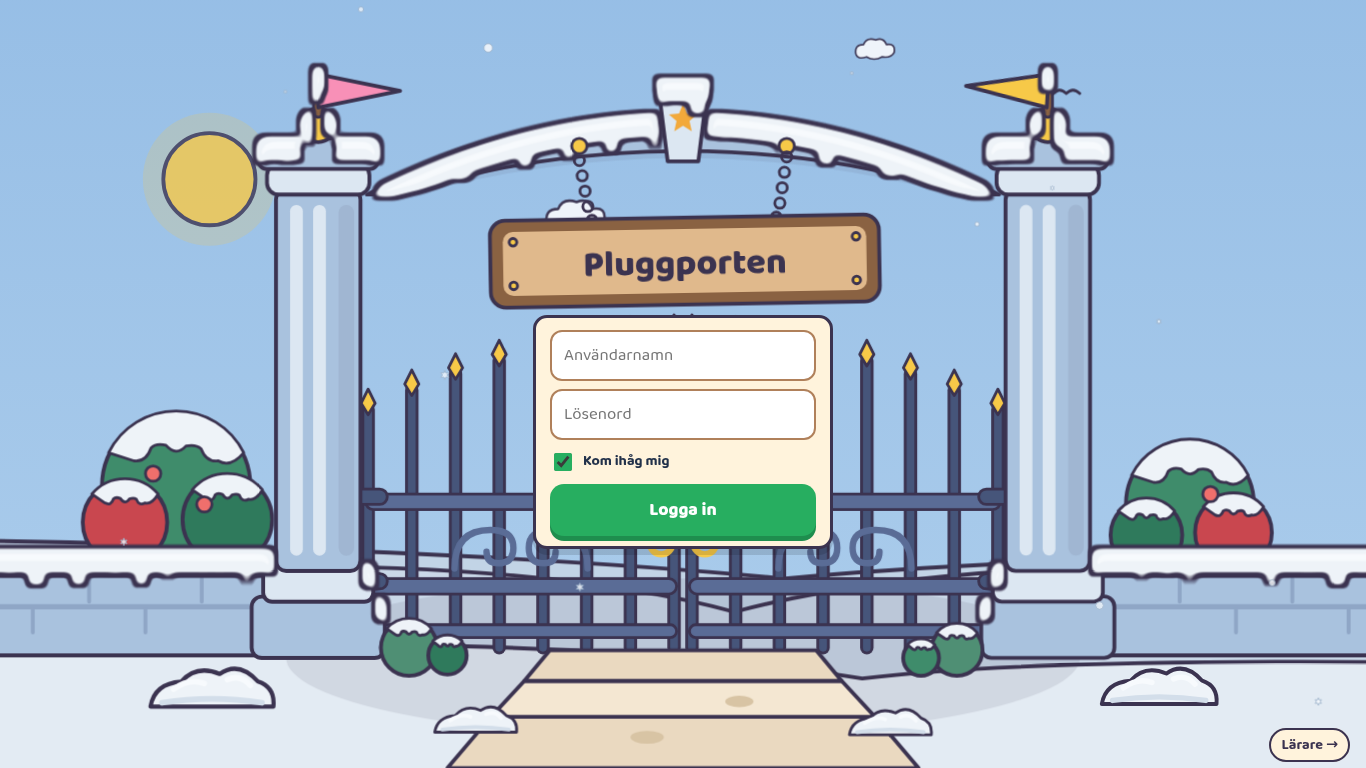
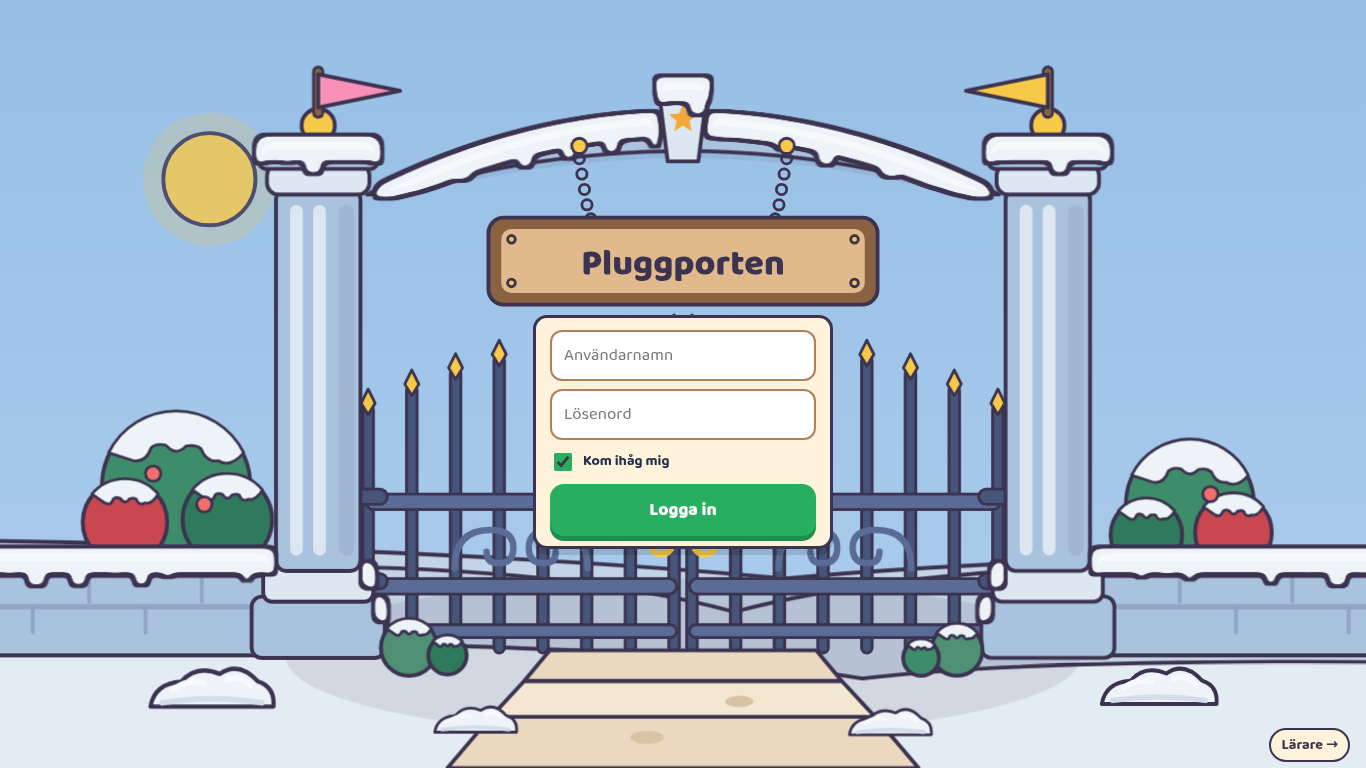
issue #908: fixrunda 1 – Tillbaka AA i vinterspärren, hill #C4D3E4 (by 1–5 hus ≤ 212,3), snöbitmapp följer DPR + skarpare kant, inga klumpar på vimpelstängerna

diff --git a/src/art-style.js b/src/art-style.js
@@ -257,8 +257,12 @@ export function snogubbe(x, y, s = 1) {
 // nyckel → { nr, svg (data-URL), ruta, bild?: {url, x, y, w, h} } – en post per konst + ruta.
 const snoBilder = new Map();
 const snoPoster = []; // nr - 1 → post
-/** Bitmappens upplösning (px per konstenhet) – skarp även när kameran zoomar in. */
+/** Bitmappens upplösning: px per konstenhet vid devicePixelRatio 1, gångras
+ *  med DPR (högst 2) så snön är skarp även på HiDPI-skärmar. */
 const SNO_UPPL = 1.25;
+/** Tak för bitmappens yta (px): filtret rastreras på huvudtråden och tiden
+ *  växer med ytan (porten vid DPR 2 utan tak: ~4× längre frys). */
+const SNO_MAX_PX = 4e6;
 
 /**
  * Snötäcke på ALLT som vänder sig uppåt i `markup` (tak, skorstenar, krön …) –
@@ -296,7 +300,7 @@ export function snoTak(markup, { x = 0, y = 0, w = 960, h = 600, t = 22 } = {}) 
       <feComposite in2="SourceAlpha" operator="in" result="droppar"/>
       <feMerge><feMergeNode in="band"/><feMergeNode in="droppar"/></feMerge>
       <feGaussianBlur stdDeviation="${(t * 0.16).toFixed(1)}"/>
-      <feComponentTransfer result="sno"><feFuncA type="linear" slope="5" intercept="-2"/></feComponentTransfer>
+      <feComponentTransfer result="sno"><feFuncA type="linear" slope="14" intercept="-6.5"/></feComponentTransfer>
       <feMorphology in="sno" operator="dilate" radius="3" result="kantA"/>
       <feFlood flood-color="${O}"/><feComposite in2="kantA" operator="in" result="kant"/>
       <feFlood flood-color="${SNO}"/><feComposite in2="sno" operator="in" result="vit"/>
@@ -325,6 +329,8 @@ export function snoTak(markup, { x = 0, y = 0, w = 960, h = 600, t = 22 } = {}) 
     preserveAspectRatio="none" aria-hidden="true" pointer-events="none"/>`;
 }
 
+const enc = (t) => encodeURIComponent(t);
+
 function starta(post) {
   if (!post.bild && !post.jobb) post.jobb = snoBitmap(post).catch(() => null);
 }
@@ -345,11 +351,15 @@ export function rastreraSnoTak() {
  */
 async function snoBitmap(post) {
   const { x, y, w, h } = post.ruta;
+  const dpr = Math.min(globalThis.devicePixelRatio || 1, 2);
+  const uppl = Math.min(SNO_UPPL * dpr, Math.sqrt(SNO_MAX_PX / (w * h)));
+  const cw = Math.round(w * uppl);
+  const ch = Math.round(h * uppl);
+  // SVG:n får canvasens storlek som egen storlek: annars filtreras den i
+  // w × h och skalas sedan upp (suddigt).
   const bild = new Image();
-  bild.src = post.svg;
+  bild.src = post.svg.replace(enc(`width="${w}" height="${h}"`), enc(`width="${cw}" height="${ch}"`));
   await bild.decode();
-  const cw = Math.round(w * SNO_UPPL);
-  const ch = Math.round(h * SNO_UPPL);
   const c = document.createElement("canvas");
   c.width = cw;
   c.height = ch;
@@ -377,7 +387,7 @@ async function snoBitmap(post) {
   const f = (n) => +n.toFixed(2);
   post.bild = {
     url: URL.createObjectURL(blob),
-    x: f(x + x0 / SNO_UPPL), y: f(y + y0 / SNO_UPPL), w: f(ut.width / SNO_UPPL), h: f(ut.height / SNO_UPPL),
+    x: f(x + x0 / uppl), y: f(y + y0 / uppl), w: f(ut.width / uppl), h: f(ut.height / uppl),
   };
   for (const el of document.querySelectorAll(`image[data-sno="${post.nr}"]`)) {
     el.setAttribute("href", post.bild.url);

diff --git a/src/art-port-majestic.js b/src/art-port-majestic.js
@@ -71,7 +71,7 @@ function fagel(x, y, s, driftTid, driftDelay, bobDelay) {
 // --- Pelare med sockel, kapitäl, krönklot och vimpel -------------------------
 // Mjuk skuggning = en halvtransparent kontur-lila remsa längs skuggsidan
 // (fortfarande platt stil, ingen gradient på formerna).
-function pelare(cx, vimpelFarg, vimpelDir, vimpelFas) {
+function pelare(cx, vimpelFarg, vimpelDir, vimpelFas, kron = true) {
   // Vimpeln svajar milt kring sitt fäste vid stången (.portb-vimpel, se
   // <style>-blocket i portScenMajestic – EGNA portb-klasser, rör aldrig
   // .port-halva/#339). transform-box:fill-box → origin i flaggans stångkant.
@@ -89,12 +89,12 @@ function pelare(cx, vimpelFarg, vimpelDir, vimpelFas) {
     <!-- kapitäl: vulst + kronplatta -->
     <rect x="${cx - 40}" y="128" width="80" height="24" rx="9" fill="${STEN_LJUS}" ${LINE}/>
     <rect x="${cx - 47}" y="108" width="94" height="24" rx="7" fill="${STEN}" ${LINE}/>
-    <!-- krönklot i guld + vimpel -->
+    ${kron ? `<!-- krönklot i guld + vimpel -->
     <circle cx="${cx}" cy="98" r="13" fill="${GULD}" ${LINE}/>
     ${limb(`M${cx} 88 L${cx} 56`, WOOD_DARK, 5)}
     <g class="portb-vimpel" style="transform-origin:${origin} center${vimpelFas ? `;animation-duration:4.6s;animation-delay:-1.7s` : ""}">
       <path d="${flag}" fill="${vimpelFarg}" ${LINE}/>
-    </g>
+    </g>` : ""}
   </g>`;
 }
 
@@ -212,16 +212,14 @@ function stenmur(fromX, toX) {
 
 /**
  * Vinterns snö (#908) på pelarkrönen, valvbågen och stenmurarna: snoTak på en
- * stillastående kopia UTAN vimplarna (de svajar) – skylten och grindhalvorna
- * (som rör sig) är inte med. Regionen täcker letterboxen på breda skärmar.
+ * stillastående kopia UTAN krönet (vimplarna svajar, stången fick klumpar) –
+ * skylten och grindhalvorna (som rör sig) är inte med. Regionen täcker
+ * letterboxen på breda skärmar.
  */
 function portSno() {
-  const pelarna = (pelare(195, "", 1, false) + pelare(765, "", -1, true)).replace(
-    /<g class="portb-vimpel"[\s\S]*?<\/g>/g,
-    ""
-  );
+  const pelarna = pelare(195, "", 1, false, false) + pelare(765, "", -1, true, false);
   return snoTak(pelarna + valvbage() + stenmur(-600, 132) + stenmur(828, 1560), {
-    x: -600, y: 40, w: 2160, h: 500, t: 18,
+    x: -600, y: 50, w: 2160, h: 440, t: 18,
   });
 }
 

diff --git a/test/vinter-varlden-908.test.js b/test/vinter-varlden-908.test.js
@@ -121,12 +121,13 @@ test("gården: snö på laggården och en snögubbe", () => {
   }
 });
 
-test("porten: snö på pelare/båge/mur (utan vimplarna), drivor, vintersol", () => {
+test("porten: snö på pelare/båge/mur (utan krönen), drivor, vintersol", () => {
   const svg = portScenMajestic(portDekor());
   const bild = svg.match(/<image class="sz-bara-vinter" data-sno[^>]*>/)[0];
   const kopia = bildSvg(bild);
-  assert.match(kopia, /viewBox="-600 40 2160 500"/, "täcker letterboxen");
+  assert.match(kopia, /viewBox="-600 50 2160 440"/, "täcker letterboxen");
   assert.doesNotMatch(kopia, /Pluggporten|port-halva|portb-vimpel|#F890B7/, "skylt, grind och vimplar är inte med");
+  assert.doesNotMatch(kopia, /r="13"|M195 88 L195 56/, "krönklot och vimpelstång är inte med (F4: klumpar)");
   assert.match(svg, /class="portb-solgrupp"/);
   assert.match(svg, /class="portb-sol sz-dolj-vinter"/);
   assert.match(CSS, /html\[data-sasong="vinter"\] \.portb-solgrupp \{ opacity: 0\.8;/);
@@ -135,6 +136,8 @@ test("porten: snö på pelare/båge/mur (utan vimplarna), drivor, vintersol", ()
 
 test("lärarspärren: vinterns bakgrund + drivor och en snögubbe", () => {
   assert.match(CSS, /html\[data-sasong\] body:has\(\.sz-gate\)/);
+  // "← Tillbaka" klarar AA (≥ 4,5:1) mot vinterns ljusare blå (F1).
+  assert.match(CSS, /html\[data-sasong="vinter"\] \.sz-gate \.back-link:not\(:hover\) \{ color: #B4C1CF; \}/);
   const svg = gateDekorSvg();
   assert.ok((svg.match(/class="sz-bara-vinter"/g) || []).length >= 4);
 });

diff --git a/functions/butik/season-config.js b/functions/butik/season-config.js
@@ -67,12 +67,12 @@ export const SEASONS = {
     label: "Vinter",
     // B.1 (#906): aldrig helt vit – snön är som ljusast #EEF3F8 (B.2), mörka
     // granar och ett dovt rönnbärsrött (tree-b) som bryter det gröna.
-    // hill justerad #D3E1EE → #CAD8E8 (#908): byn i appen (med den ljusa
-    // sidomenyn) landade annars på medelluminans 215,9 > 215 i bländtestet
-    // (och en liten by med mycket mark ännu högre).
+    // hill justerad #D3E1EE → #C4D3E4 (#908): byn i appen (med den ljusa
+    // sidomenyn) landade annars över 215 i bländtestet – en liten by (1–5
+    // hus) är mest mark och hamnar nu på ≤ 213.
     palette: {
       sky1: "#7DB3E3", sky2: "#E6EEF7",
-      hill: "#CAD8E8", grass: "#E3EBF3", "grass-light": "#EEF3F8", "grass-mid": "#D8E3EE",
+      hill: "#C4D3E4", grass: "#E3EBF3", "grass-light": "#EEF3F8", "grass-mid": "#D8E3EE",
       tuft: "#AFC4D8", "tuft-dark": "#94ABC4",
       "tree-a": "#3F8C6B", "tree-b": "#C9474F", "tree-c": "#2F7A5C", bush: "#5C9C80",
       "port-bg": "#8DBBE6", "port-sky1": "#5E97D6", "port-sky2": "#A9CBEB", "port-sky3": "#F3E4D2",

diff --git a/src/season-config.js b/src/season-config.js
@@ -67,12 +67,12 @@ export const SEASONS = {
     label: "Vinter",
     // B.1 (#906): aldrig helt vit – snön är som ljusast #EEF3F8 (B.2), mörka
     // granar och ett dovt rönnbärsrött (tree-b) som bryter det gröna.
-    // hill justerad #D3E1EE → #CAD8E8 (#908): byn i appen (med den ljusa
-    // sidomenyn) landade annars på medelluminans 215,9 > 215 i bländtestet
-    // (och en liten by med mycket mark ännu högre).
+    // hill justerad #D3E1EE → #C4D3E4 (#908): byn i appen (med den ljusa
+    // sidomenyn) landade annars över 215 i bländtestet – en liten by (1–5
+    // hus) är mest mark och hamnar nu på ≤ 213.
     palette: {
       sky1: "#7DB3E3", sky2: "#E6EEF7",
-      hill: "#CAD8E8", grass: "#E3EBF3", "grass-light": "#EEF3F8", "grass-mid": "#D8E3EE",
+      hill: "#C4D3E4", grass: "#E3EBF3", "grass-light": "#EEF3F8", "grass-mid": "#D8E3EE",
       tuft: "#AFC4D8", "tuft-dark": "#94ABC4",
       "tree-a": "#3F8C6B", "tree-b": "#C9474F", "tree-c": "#2F7A5C", bush: "#5C9C80",
       "port-bg": "#8DBBE6", "port-sky1": "#5E97D6", "port-sky2": "#A9CBEB", "port-sky3": "#F3E4D2",

diff --git a/src/styles.css b/src/styles.css
@@ -8256,6 +8256,9 @@ html[data-halloween] body:has(.sz-gate) {
   width: 100%;
   height: 100%;
 }
+/* Vinterns (och julens) blå bakgrund är ljusare än lärarsidans mörka: den
+   dämpade "← Tillbaka" (--t-muted, 4,0:1) blir ljusare så den klarar AA (5,6:1). */
+html[data-sasong="vinter"] .sz-gate .back-link:not(:hover) { color: #B4C1CF; }
 .sz-gate > * { position: relative; z-index: 1; }
 .sz-gate > .sz-gate-dekor { position: fixed; z-index: 0; }
 @keyframes sz-tona-in {

diff --git a/src/styles/32-sasong.css b/src/styles/32-sasong.css
@@ -177,6 +177,9 @@ html[data-halloween] body:has(.sz-gate) {
   width: 100%;
   height: 100%;
 }
+/* Vinterns (och julens) blå bakgrund är ljusare än lärarsidans mörka: den
+   dämpade "← Tillbaka" (--t-muted, 4,0:1) blir ljusare så den klarar AA (5,6:1). */
+html[data-sasong="vinter"] .sz-gate .back-link:not(:hover) { color: #B4C1CF; }
 .sz-gate > * { position: relative; z-index: 1; }
 .sz-gate > .sz-gate-dekor { position: fixed; z-index: 0; }
 @keyframes sz-tona-in {

diff --git a/docs/vinter-jul/README.md b/docs/vinter-jul/README.md
@@ -24,23 +24,25 @@ Matrisen och fönstret kommer från `preview/preview-vinter-908.html?vy=matris|f
 
 ### QA 19 – bländtestet (1366×768, hela skärmen inklusive sidomenyn)
 
-Kommandot är `node admin/qa-vinter-blandtest.mjs docs/vinter-jul/b-vinter/{by,by-5hus,hus,gard,port,gate}.png`.
+Kommandot är `node admin/qa-vinter-blandtest.mjs docs/vinter-jul/b-vinter/{by,by-1hus,by-5hus,hus,gard,port,gate}.png`.
 
 | Vy | Medelluminans (≤ 215) | Pixlar ≥ 245 (≤ 5 %) | |
 | --- | --- | --- | --- |
-| by | 211.5 | 2.35 % | OK |
-| by-5hus | 213.2 | 1.23 % | OK |
-| hus | 204.7 | 1.27 % | OK |
-| gard | 203.6 | 1.72 % | OK |
-| port | 183.4 | 3.20 % | OK |
-| gate | 53.2 | 0.16 % | OK |
+| by | 208.7 | 2.36 % | OK |
+| by-1hus | 212.3 | 0.90 % | OK |
+| by-5hus | 210.3 | 1.23 % | OK |
+| hus | 204.5 | 1.23 % | OK |
+| gard | 203.4 | 1.67 % | OK |
+| port | 183.4 | 3.31 % | OK |
+| gate | 50.2 | 0.00 % | OK |
 
 Luminansen räknas med Rec. 709 (0,2126 R + 0,7152 G + 0,0722 B).
 
 Paletten fick en justering. Med `hill: #D3E1EE` från B.1 landade byn på 215,9 på hela
 skärmen, eftersom den ljusa sidomenyn är med. Utan sidomenyn var värdet 211,4. En liten
-by med mycket mark låg ännu högre. Därför är `hill` nu `#CAD8E8`. Det ger byn utan
-sidomeny 206,0 med 20 hus och 208,2 med 5 hus, nära färgtestets 206,7.
+by med mycket mark låg ännu högre: med `#CAD8E8` hamnade en by med 1 hus på 215,5
+(testarens F3). Därför är `hill` nu `#C4D3E4`, och byar med 1–5 hus ligger på
+210,3–212,3.
 
 ### QA 20 – sommar och höst är oförändrade
 
@@ -60,6 +62,15 @@ by, hus, gård, rum, port och lärarspärr i sommar, höst, höst + Halloween oc
   det om vid varje kamerazoom, vilket gav en frysning på cirka 1 s. Nu körs filtret en
   gång per husskal till en beskuren PNG (blob-URL) som ritas som `<image>`. Byn
   ligger då på 60 fps i vila och har samma zoom-tider som sommaren.
+- **Snöbitmappens upplösning** följer `devicePixelRatio` (högst 2): 1,25 px per
+  konstenhet gånger DPR, med ett tak på 4 Mpx per bild. Filtret rastreras på
+  huvudtråden, och utan tak frös porten i cirka 21 s vid DPR 2 i headless (mot
+  0,9 s förut); med taket blir det cirka 3 s där. Snökanten har också en brantare
+  tröskel, så den är skarp i stället för mjuk.
+- **Vimpelstängerna och krönkloten** på porten är inte med i snökopian. De fick
+  annars snöklumpar.
+- **"← Tillbaka" i lärarspärren** är `#B4C1CF` på vintern (5,6:1 mot `#2E4066`).
+  Lärarsidans `--t-muted` gav bara 4,0:1 mot den ljusare blå bakgrunden.
 - **Vintersolen** på porten och huset ute är samma sol, men med opacitet 0,8, lite lägre
   och utan strålar.
 - **Granarna i byn** följer `--sz-gran` och blir mörkgröna på vintern. Det gäller också
